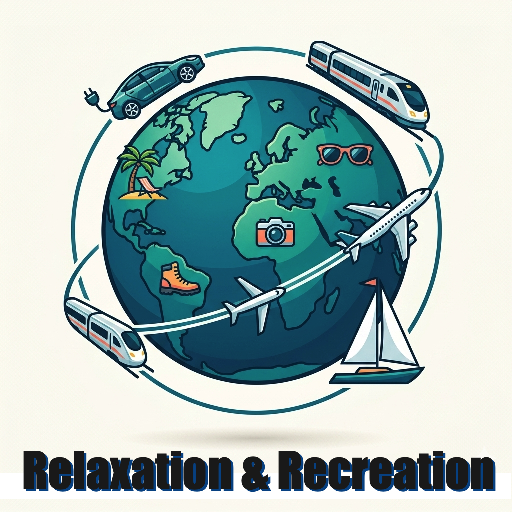
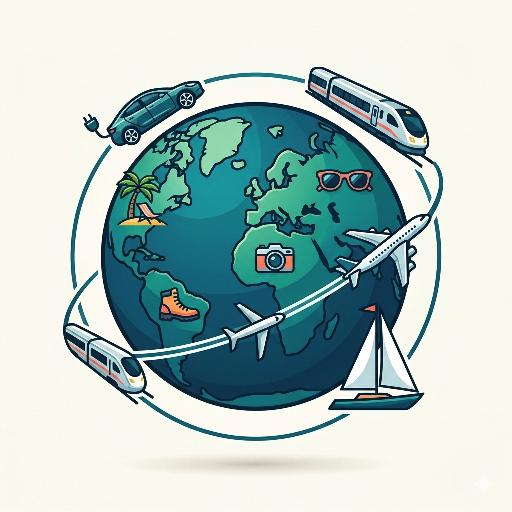
Updated Page2 — About Us page

diff --git a/css/style.css b/css/style.css
@@ -572,9 +572,9 @@ h2 {
 
 .nav-icon-group img {
   width: auto; /* Width is proportional and fluid */
-  /* max-width: 100%; Important: prevents icons from exceeding their space */
+  max-width: 100%; /* Important: prevents icons from exceeding their space */
   height: auto;
-  /* max-height: 100%; */
+  max-height: 100%;
   object-fit: contain; /* Prevents image distortion */
   transition: transform 0.2s ease;
   